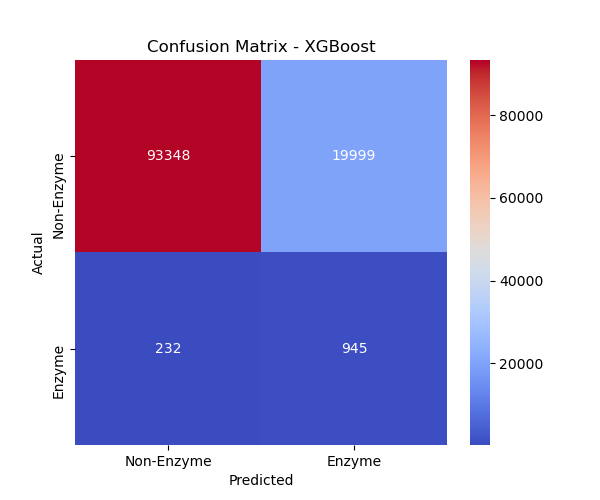
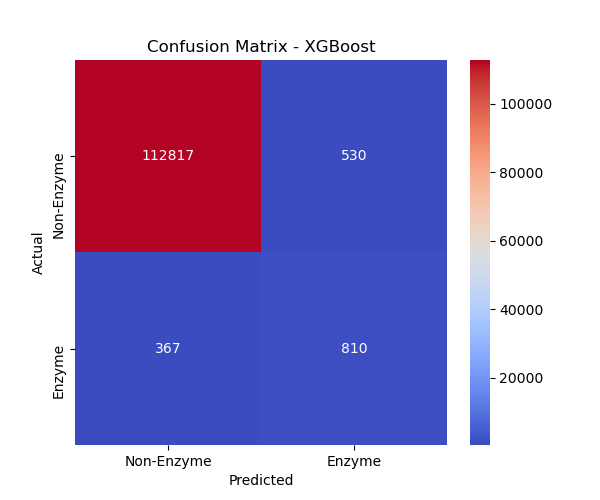
Updated XGBoost model with feature selection, threshold tuning, and improved class balancing

diff --git a/scripts/train_model.py b/scripts/train_model.py
@@ -4,10 +4,10 @@ import numpy as np
 import pandas as pd
 import matplotlib.pyplot as plt
 import seaborn as sns
-import xgboost as xgb
 from sklearn.model_selection import train_test_split
 from sklearn.metrics import accuracy_score, classification_report, confusion_matrix
-from imblearn.over_sampling import ADASYN
+from imblearn.over_sampling import BorderlineSMOTE  # More controlled oversampling
+import xgboost as xgb
 
 # Ensure output directory exists
 output_dir = "outputs"
@@ -27,33 +27,28 @@ y = df["Label"]
 # Split into training and testing sets (80% train, 20% test)
 X_train, X_test, y_train, y_test = train_test_split(X, y, test_size=0.2, random_state=42, stratify=y)
 
-# **Apply ADASYN to Handle Imbalance**
-adasyn = ADASYN(sampling_strategy=0.5, random_state=42)  # Adjust sampling ratio
-X_train_balanced, y_train_balanced = adasyn.fit_resample(X_train, y_train)
+# **Fix Imbalance: Use Borderline-SMOTE (safer than ADASYN)**
+smote = BorderlineSMOTE(sampling_strategy=0.3, random_state=42, kind="borderline-1")
+X_train_balanced, y_train_balanced = smote.fit_resample(X_train, y_train)
 
-print(f"Class distribution after ADASYN: {np.bincount(y_train_balanced)}")
+print(f"Class distribution after Borderline-SMOTE: {np.bincount(y_train_balanced)}")
 
-# **Feature Selection: Keep Most Important Features**
-important_features = ["Molecular_Weight", "Hydrophobicity", "W", "Y", "F", "C", "E", "D", "G", "V"]
-X_train_selected = X_train_balanced[important_features]
-X_test_selected = X_test[important_features]
+# **Train XGBoost Classifier with Class Weighting**
+xgb_model = xgb.XGBClassifier(n_estimators=200,
+                              max_depth=10,
+                              scale_pos_weight=(y_train == 0).sum() / (y_train == 1).sum(),  # Balancing classes
+                              use_label_encoder=False,
+                              eval_metric="logloss",
+                              random_state=42)
 
-# **Train Optimized XGBoost Model**
-xgb_model = xgb.XGBClassifier(
-    n_estimators=300,  # Increased for better learning
-    max_depth=10,
-    learning_rate=0.05,  # Reduced to prevent overfitting
-    scale_pos_weight=5,  # Balancing false positives
-    eval_metric="logloss",
-    random_state=42
-)
+xgb_model.fit(X_train_balanced, y_train_balanced)
 
-xgb_model.fit(X_train_selected, y_train_balanced)
+# **Make predictions with threshold tuning**
+y_pred_proba = xgb_model.predict_proba(X_test)[:, 1]  # Get probability scores
+threshold = 0.6  # Increase threshold to reduce false positives
+y_pred_xgb = (y_pred_proba > threshold).astype(int)
 
-# Make Predictions
-y_pred_xgb = xgb_model.predict(X_test_selected)
-
-# Evaluate the Model
+# Evaluate the XGBoost model
 accuracy_xgb = accuracy_score(y_test, y_pred_xgb)
 print(f"XGBoost Accuracy: {accuracy_xgb:.2f}")
 print("Classification Report:\n", classification_report(y_test, y_pred_xgb))
@@ -68,19 +63,32 @@ plt.title("Confusion Matrix - XGBoost")
 plt.savefig(os.path.join(output_dir, "confusion_matrix_xgb.png"))
 plt.close()  
 
-# **Plot Feature Importance**
-importance = xgb_model.get_booster().get_score(importance_type="weight")
-importance_df = pd.DataFrame(importance.items(), columns=["Feature", "F score"]).sort_values(by="F score", ascending=False)
+# **Feature Importance**
+feature_importance = xgb_model.get_booster().get_score(importance_type="weight")
+sorted_features = sorted(feature_importance.items(), key=lambda x: x[1], reverse=True)
+important_features = [feat for feat, _ in sorted_features[:10]]  # Top 10 features
 
+# **Plot Feature Importance**
 plt.figure(figsize=(10,6))
-sns.barplot(x="F score", y="Feature", data=importance_df)
-for i, v in enumerate(importance_df["F score"]):
-    plt.text(v + 100, i, f"{v:.1f}", color="black")
+sns.barplot(x=[feature_importance[f] for f in important_features], y=important_features)
 plt.xlabel("F score")
-plt.ylabel("Feature")
+plt.ylabel("Features")
 plt.title("Feature Importance - XGBoost")
 plt.savefig(os.path.join(output_dir, "feature_importance_xgb.png"))
 plt.close()
+
+# **Reduce dataset to important features**
+X_train_selected = X_train_balanced[important_features]
+X_test_selected = X_test[important_features]
+
+# **Retrain XGBoost with selected features**
+xgb_model.fit(X_train_selected, y_train_balanced)
+y_pred_selected = (xgb_model.predict_proba(X_test_selected)[:, 1] > threshold).astype(int)
+
+# Evaluate with selected features
+accuracy_selected = accuracy_score(y_test, y_pred_selected)
+print(f"XGBoost (Selected Features) Accuracy: {accuracy_selected:.2f}")
+print("Classification Report:\n", classification_report(y_test, y_pred_selected))
 
 # Close log file
 sys.stdout.close()
